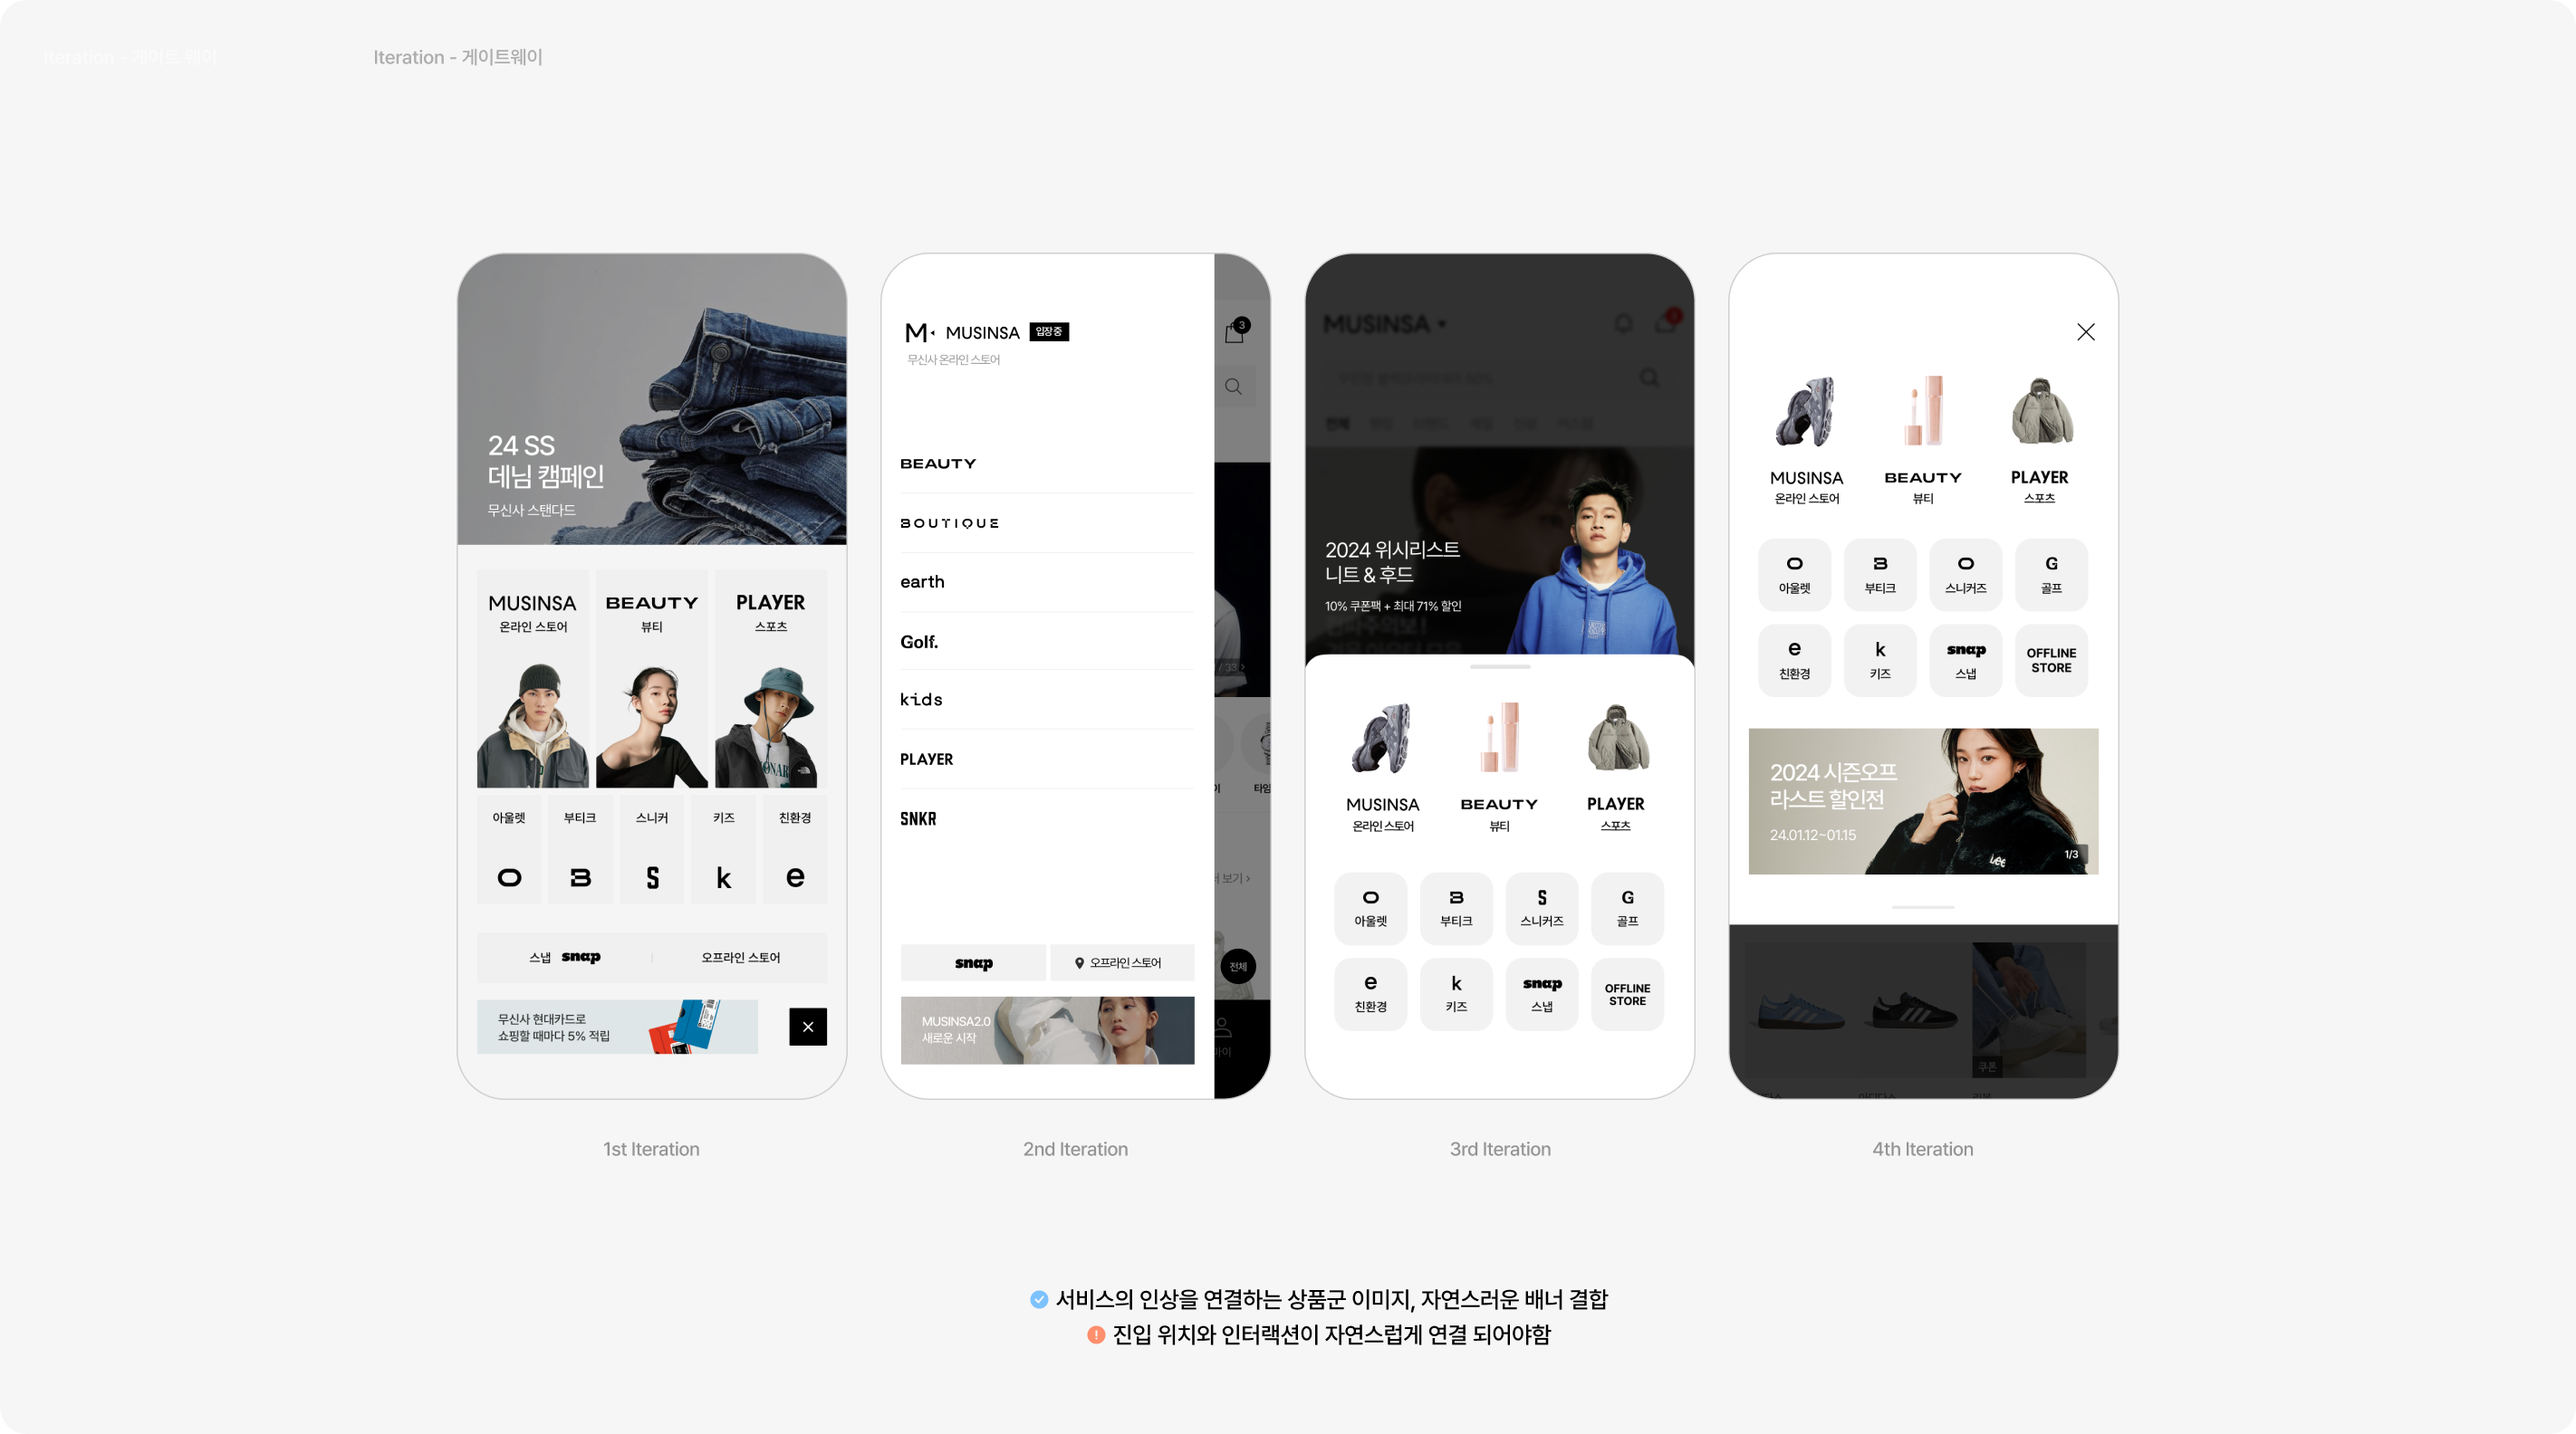
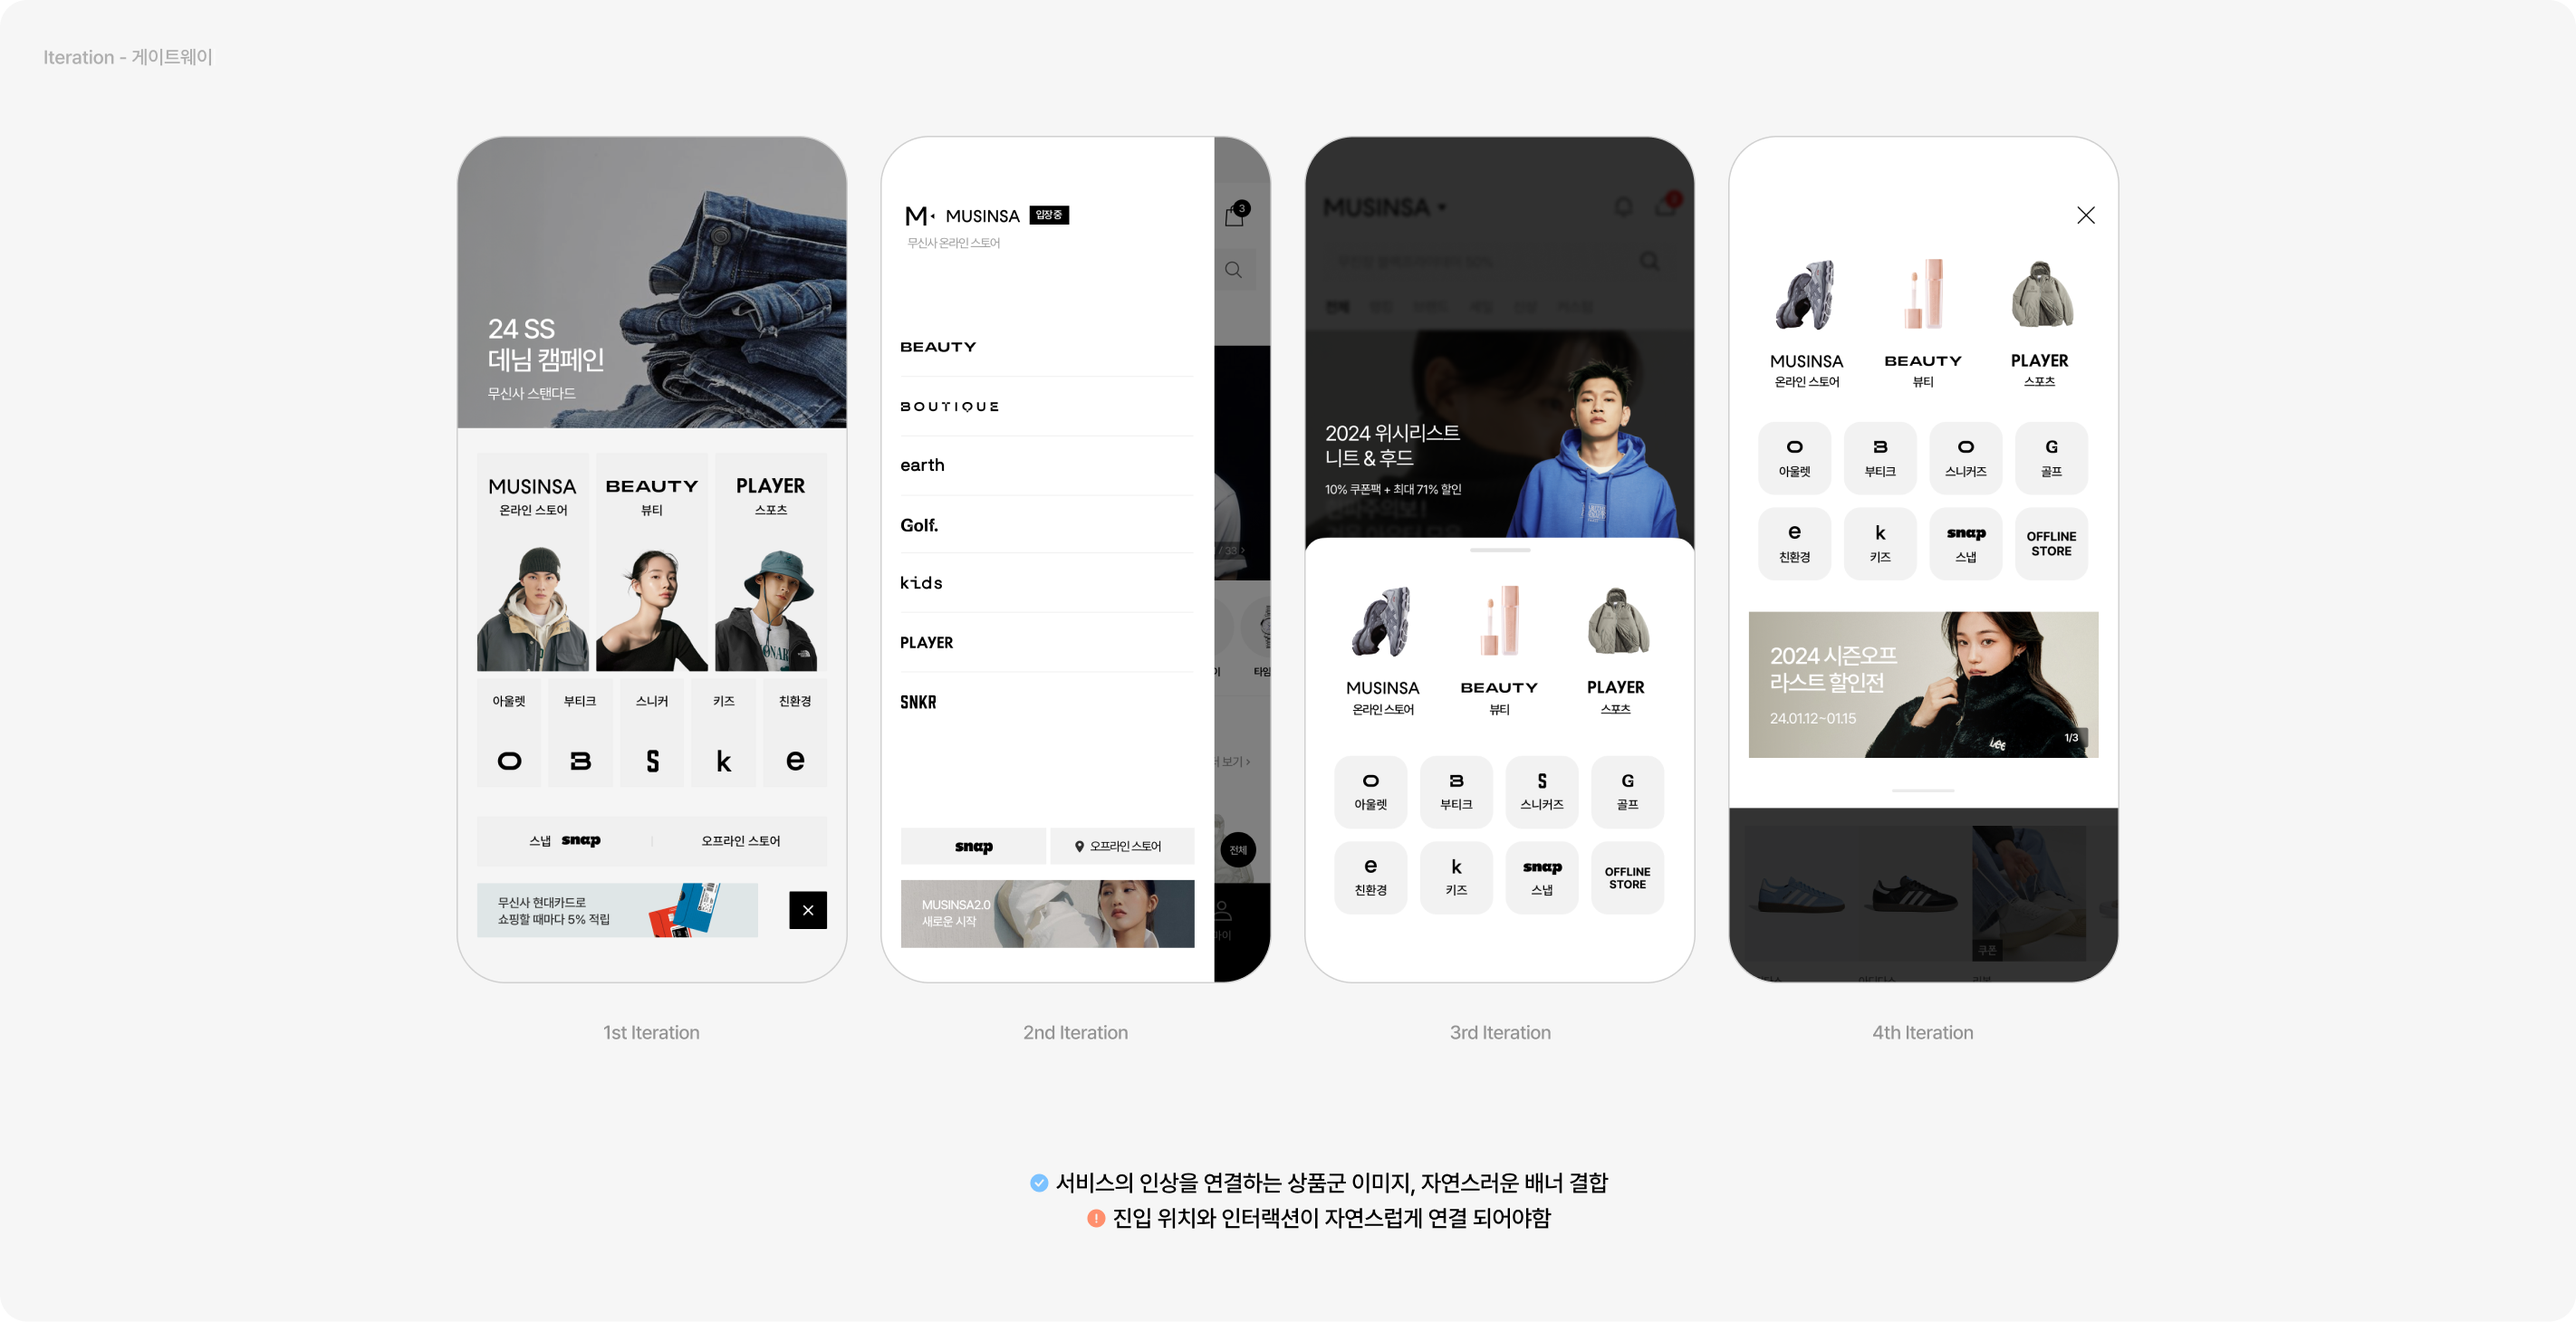
Update MUSINSA detail images 03 and 05

diff --git a/musinsa.html b/musinsa.html
@@ -111,9 +111,9 @@
             <p>네 차례의 이터레이션을 거치며 서비스의 인상을 연결하는 상품군 이미지와 자연스러운 배너 결합은 유지하되, 진입 위치와 인터랙션이 자연스럽게 연결되어야 한다는 과제를 확인했습니다.</p>
         </div>
         <figure class="detail-figure">
-          <div class="detail-figure__frame" style="--ar:2844 / 1584">
+          <div class="detail-figure__frame" style="--ar:2844 / 1460">
             <div class="detail-figure__clip">
-              <img src="images/musinsa/musinsa-page-03.png" alt="무신사 멀티스토어로의 빠른 진입을 위한 ‘게이트웨이’ 신규 기획 도출" width="2844" height="1584" loading="lazy" decoding="async">
+              <img src="images/musinsa/musinsa-page-03.png" alt="무신사 멀티스토어로의 빠른 진입을 위한 ‘게이트웨이’ 신규 기획 도출" width="2844" height="1460" loading="lazy" decoding="async">
             </div>
           </div>
         </figure>
@@ -145,9 +145,9 @@
             <p>홈 ATF 이터레이션에서 검색창의 노출로 목적형 탐색을 지원하는 방향은 확정했고, 이펙트와 요소의 중첩이 화면의 복잡도를 높이는 문제는 단계적으로 걷어냈습니다.</p>
         </div>
         <figure class="detail-figure">
-          <div class="detail-figure__frame" style="--ar:2844 / 1584">
+          <div class="detail-figure__frame" style="--ar:2844 / 1460">
             <div class="detail-figure__clip">
-              <img src="images/musinsa/musinsa-page-05.png" alt="홈 상단에서 검색과 콘텐츠의 우선순위를 정리했습니다" width="2844" height="1584" loading="lazy" decoding="async">
+              <img src="images/musinsa/musinsa-page-05.png" alt="홈 상단에서 검색과 콘텐츠의 우선순위를 정리했습니다" width="2844" height="1460" loading="lazy" decoding="async">
             </div>
           </div>
         </figure>
